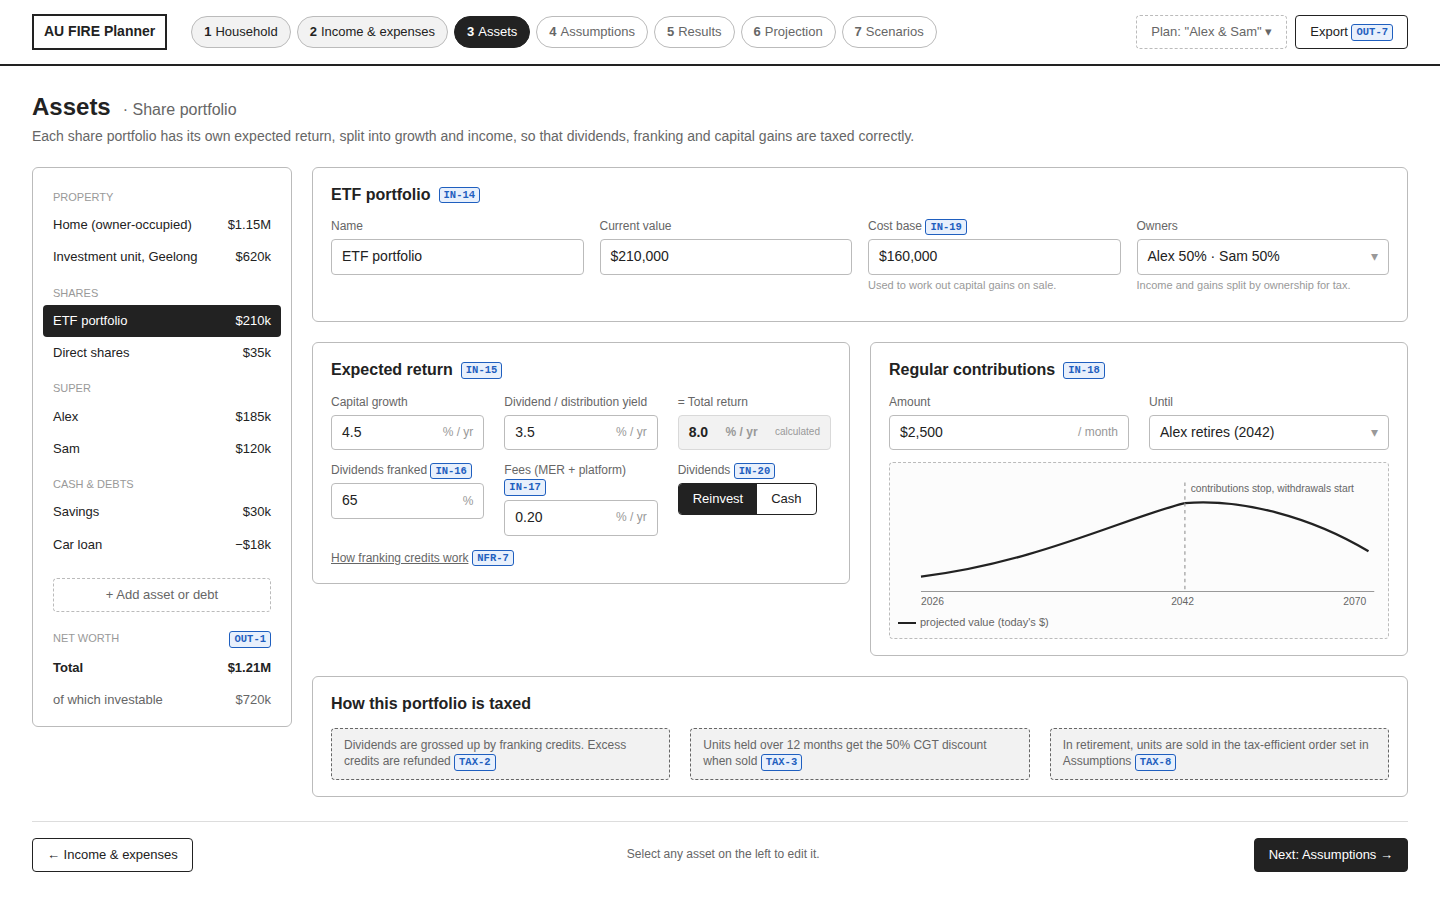
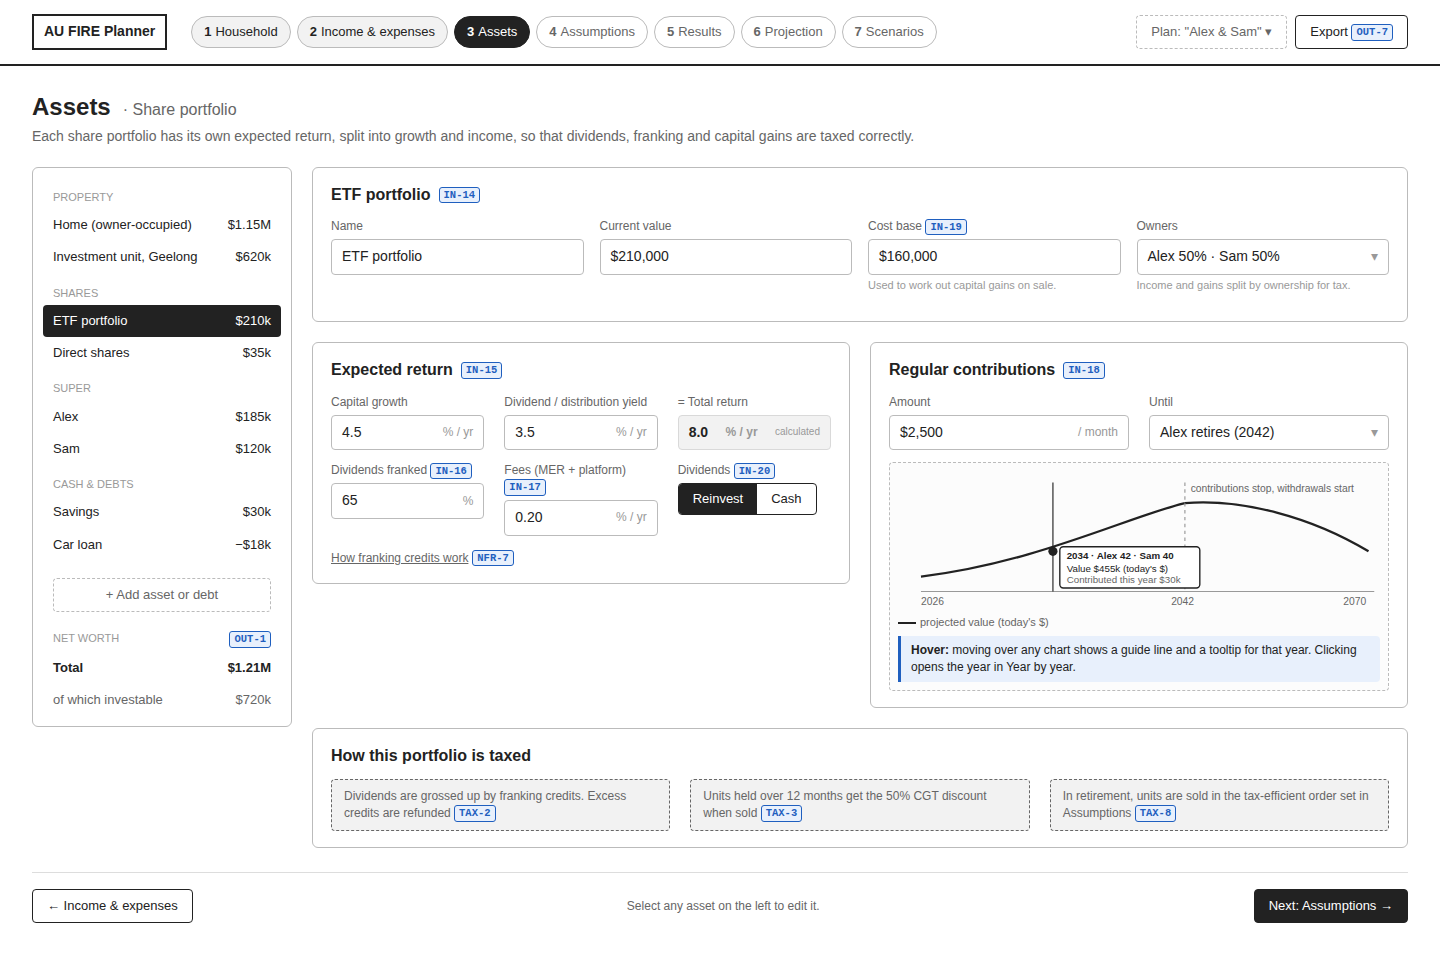
Note hover interactions on mockup charts
Review asked for the mockups to note that the charts have hover
interactions. A static PNG can't show them, so a reader could take the
charts for fixed images. The share portfolio chart now shows its hover
state: a guide line, a point and a tooltip with that year's ages,
value and contribution. A note says hovering works the same on every
chart, and that clicking opens the year in Year by year.

The README now lists this, along with the table editing pattern, under
"Interactions a static image can't show". The Results page carries a
short reminder next to its charts.

Claude-Session: https://claude.ai/code/session_01CkXEKQ2deJcmokvWZ3pCCG

diff --git a/requirements/mockups/src/03b-assets-shares.html b/requirements/mockups/src/03b-assets-shares.html
@@ -56,8 +56,16 @@
                 <line x1="250" y1="10" x2="250" y2="105" stroke="#999" stroke-dasharray="3 3"/>
                 <text x="255" y="18" font-size="9" fill="#666">contributions stop, withdrawals start</text>
                 <text x="20" y="117" font-size="9" fill="#666">2026</text><text x="238" y="117" font-size="9" fill="#666">2042</text><text x="388" y="117" font-size="9" fill="#666">2070</text>
+                <!-- Hover state: guide line, point and tooltip for the year under the cursor. -->
+                <line x1="135" y1="10" x2="135" y2="105" stroke="#222" stroke-width="1"/>
+                <circle cx="135" cy="70" r="4" fill="#222"/>
+                <rect x="141" y="66" width="122" height="36" rx="3" fill="#fff" stroke="#222" stroke-width="1.2"/>
+                <text x="147" y="77" font-size="8.5" font-weight="700" fill="#222">2034 · Alex 42 · Sam 40</text>
+                <text x="147" y="88" font-size="8.5" fill="#222">Value $455k (today's $)</text>
+                <text x="147" y="98" font-size="8.5" fill="#666">Contributed this year $30k</text>
               </svg>
               <div class="legend"><span><i></i>projected value (today's $)</span></div>
+              <div class="howto" style="margin-top: 6px"><b>Hover:</b> moving over any chart shows a guide line and a tooltip for that year. Clicking opens the year in Year by year.</div>
             </div>
           </div>
         </div>

diff --git a/requirements/mockups/src/05-results.html b/requirements/mockups/src/05-results.html
@@ -110,7 +110,7 @@
       </div>
 
     <!-- FIRE visualisations (FIRE-7). -->
-    <div class="section-title">FIRE <span class="req">FIRE-7</span> <span class="learn" style="font-size: 12px; font-weight: 400">What is FIRE? <span class="req">NFR-7</span></span></div>
+    <div class="section-title">FIRE <span class="req">FIRE-7</span> <span class="muted small" style="font-weight: 400">Hover any chart for exact values</span> <span class="learn" style="font-size: 12px; font-weight: 400">What is FIRE? <span class="req">NFR-7</span></span></div>
     <div class="grid-3">
       <div class="card">
         <h3>(a) Investable net worth vs FI number</h3>

diff --git a/requirements/mockups/README.md b/requirements/mockups/README.md
@@ -15,6 +15,11 @@ They show one possible user flow and screen layout for the requirements in
 - **Example data.** Every screen uses the same fictional couple, "Alex & Sam",
   so the figures line up across screens. The numbers are illustrative only.
 - **Desktop only.** A mobile responsive design is in the backlog (BL-6).
+- **Interactions a static image can't show:**
+  - **Tables:** click any cell to edit it in place. Hover a row for its ⋯
+    menu (Duplicate, Delete). See screen 02.
+  - **Charts:** hovering shows a guide line and a tooltip with that year's
+    values, and clicking opens the year in Year by year. See screen 03b.
 
 ## Screens
 
